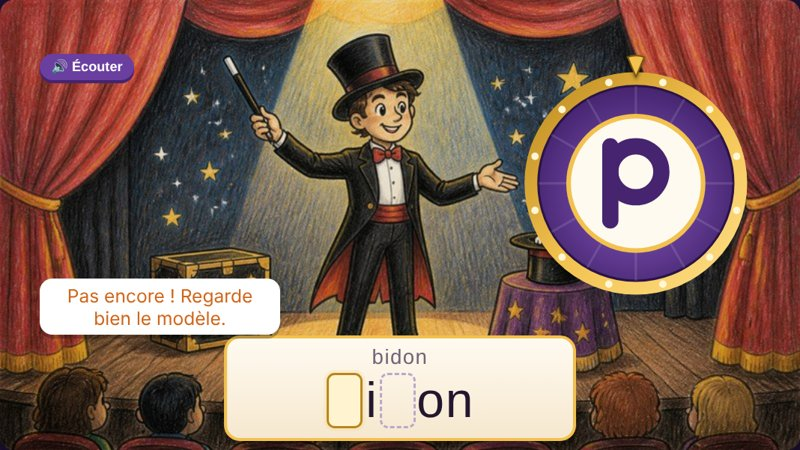
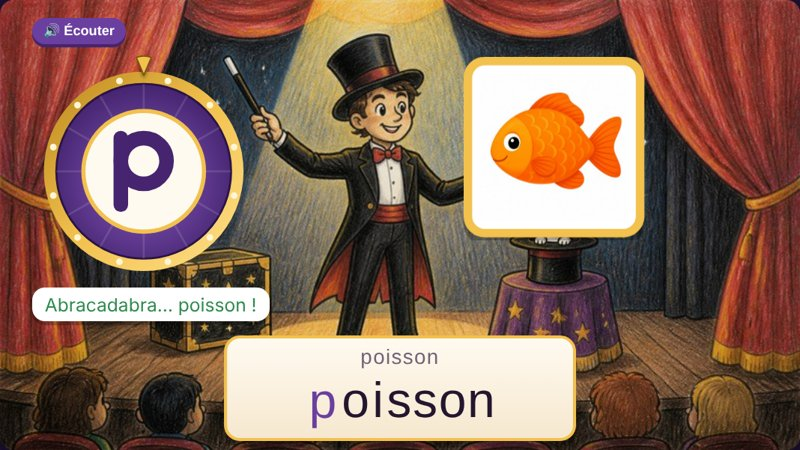
La roue du magicien : l'image sort du chapeau du décor et s'agrandit ; roue à gauche ; nouvelle vignette

Changed region(s): [[0.0312, 0.0311, 0.375, 0.7778], [0.5625, 0.1244, 0.9375, 0.6533], [0.375, 0.7778, 0.625, 0.9644]]

diff --git a/site/post/la-roue-du-magicien/index.html b/site/post/la-roue-du-magicien/index.html
@@ -63,7 +63,7 @@
   <h1>La roue du magicien</h1>
   <p class="meta">4 novembre 2026 · <span class="chip">Lecture-compréhension</span></p>
   <div class="reperes"><span class="niv">GS</span><span class="niv">CP</span><span class="niv">CE1</span><span>👥 1 joueur ou la classe</span><span title="À l'écran">🖥 À l'écran</span><span title="Projetable">📽 Projetable</span></div>
-  <div class="prose"><p>Un jeu de discrimination visuelle pour ne plus confondre b, d, p et q. Sur la scène du magicien, une roue magique contient une seule lettre : un d. En la tournant, il devient p ; en la retournant, il devient b ; en faisant les deux, il devient q. L&#x27;élève doit trouver la bonne position pour écrire la lettre qui manque dans le mot.</p><h2>Comment jouer</h2><ol><li>L&#x27;adulte choisit le niveau, le nombre de mots, les lettres à travailler (b, d, p, q, ou seulement deux d&#x27;entre elles) et les aides.</li><li>Un mot apparaît devant la scène, avec une case vide à la place de chaque b, d, p ou q, et il est dit à voix haute. L&#x27;image du mot reste cachée dans le chapeau du magicien.</li><li>L&#x27;élève fait tourner la roue (avec le doigt, la souris ou le bouton « Tourner ») et la retourne comme une pièce (bouton « Retourner ») jusqu&#x27;à obtenir la bonne lettre.</li><li>Il appuie sur « Abracadabra ! » : si la lettre est bonne, elle s&#x27;envole dans le mot. Sinon, la roue tremble. Après deux erreurs, la bonne lettre apparaît en gris dans la case. Quand le mot est complet, son image sort du chapeau.</li><li>À la fin, un bilan montre les mots écrits et, pour l&#x27;enseignant, un tableau des confusions (par exemple : il fallait b, l&#x27;élève a écrit d).</li></ol><h2>Les 3 niveaux</h2><ul><li>Niveau 1 : une seule lettre à écrire dans le mot (banane, domino, lapin), 15 mots illustrés.</li><li>Niveau 2 : plusieurs lettres dans le même mot (bébé, debout, pédale, papillon).</li><li>Niveau 3 : avec la lettre q (coq, bouquet, paquet, pique-nique).</li><li>Mes mots : l&#x27;enseignant tape sa propre liste.</li></ul><h2>Options</h2><ul><li>Le mot écrit en modèle au-dessus : l&#x27;élève compare et recopie la bonne lettre. Sans modèle, il s&#x27;appuie sur l&#x27;image et sur ce qu&#x27;il entend, c&#x27;est plus difficile.</li><li>Faire sortir ou non l&#x27;image du chapeau (sinon, c&#x27;est le mot écrit qui en sort), dire le mot à voix haute, bruitages.</li><li>Au clavier : flèches gauche et droite pour tourner, haut et bas pour retourner, Entrée pour valider (pratique au vidéoprojecteur).</li></ul><div class="embed embed-large"><div class="embed-bar"><button class="btn embed-fs" type="button" onclick="pleinEcran(this)">⛶ Plein écran</button></div><iframe src="/outils/la-roue-du-magicien.html?v=b6960f1e" style="height:calc(100vh - 84px);min-height:460px;max-height:1000px" title="Outil interactif" loading="lazy" allow="microphone; fullscreen" allowfullscreen></iframe></div><script>
+  <div class="prose"><p>Un jeu de discrimination visuelle pour ne plus confondre b, d, p et q. Sur la scène du magicien, une roue magique contient une seule lettre : un d. En la tournant, il devient p ; en la retournant, il devient b ; en faisant les deux, il devient q. L&#x27;élève doit trouver la bonne position pour écrire la lettre qui manque dans le mot.</p><h2>Comment jouer</h2><ol><li>L&#x27;adulte choisit le niveau, le nombre de mots, les lettres à travailler (b, d, p, q, ou seulement deux d&#x27;entre elles) et les aides.</li><li>Un mot apparaît devant la scène, avec une case vide à la place de chaque b, d, p ou q, et il est dit à voix haute. L&#x27;image du mot reste cachée dans le chapeau du magicien.</li><li>L&#x27;élève fait tourner la roue (avec le doigt, la souris ou le bouton « Tourner ») et la retourne comme une pièce (bouton « Retourner ») jusqu&#x27;à obtenir la bonne lettre.</li><li>Il appuie sur « Abracadabra ! » : si la lettre est bonne, elle s&#x27;envole dans le mot. Sinon, la roue tremble. Après deux erreurs, la bonne lettre apparaît en gris dans la case. Quand le mot est complet, son image sort du chapeau.</li><li>À la fin, un bilan montre les mots écrits et, pour l&#x27;enseignant, un tableau des confusions (par exemple : il fallait b, l&#x27;élève a écrit d).</li></ol><h2>Les 3 niveaux</h2><ul><li>Niveau 1 : une seule lettre à écrire dans le mot (banane, domino, lapin), 15 mots illustrés.</li><li>Niveau 2 : plusieurs lettres dans le même mot (bébé, debout, pédale, papillon).</li><li>Niveau 3 : avec la lettre q (coq, bouquet, paquet, pique-nique).</li><li>Mes mots : l&#x27;enseignant tape sa propre liste.</li></ul><h2>Options</h2><ul><li>Le mot écrit en modèle au-dessus : l&#x27;élève compare et recopie la bonne lettre. Sans modèle, il s&#x27;appuie sur l&#x27;image et sur ce qu&#x27;il entend, c&#x27;est plus difficile.</li><li>Faire sortir ou non l&#x27;image du chapeau (sinon, c&#x27;est le mot écrit qui en sort), dire le mot à voix haute, bruitages.</li><li>Au clavier : flèches gauche et droite pour tourner, haut et bas pour retourner, Entrée pour valider (pratique au vidéoprojecteur).</li></ul><div class="embed embed-large"><div class="embed-bar"><button class="btn embed-fs" type="button" onclick="pleinEcran(this)">⛶ Plein écran</button></div><iframe src="/outils/la-roue-du-magicien.html?v=84aa563a" style="height:calc(100vh - 84px);min-height:460px;max-height:1000px" title="Outil interactif" loading="lazy" allow="microphone; fullscreen" allowfullscreen></iframe></div><script>
 function pleinEcran(b){
   var f = b.closest('.embed').querySelector('iframe');
   var req = f.requestFullscreen || f.webkitRequestFullscreen;

diff --git a/assets/la-roue-du-magicien.html b/assets/la-roue-du-magicien.html
@@ -84,12 +84,19 @@ textarea{width:100%;font:inherit;font-size:17px;padding:8px 10px;border:2px soli
   box-shadow:0 10px 30px rgba(0,0,0,.45);user-select:none;-webkit-user-select:none;touch-action:manipulation}
 .scene.decor-image{background:#22113b center/cover no-repeat}
 .scene.decor-image .decor{display:none}
-/* Avec le décor Canva : le magicien reste visible au centre, le tableau à gauche, la roue à droite, le mot devant la scène. */
+/* Avec le décor Canva : le magicien reste visible au centre, la roue à gauche, le mot devant la scène. */
 .scene.decor-image .panneau{top:auto;bottom:2%}
-.scene.decor-image .chapeau-zone{left:6%;top:13%;width:20%}
+/* Avec le décor : l'image sort du chapeau posé sur la table, à droite du magicien (ouverture vers 69 % / 53,5 %), la roue passe à gauche. */
+.scene.decor-image .chapeau-zone{left:56%;top:0;width:26.4%;height:53.5%;aspect-ratio:auto}
+.scene.decor-image .chapeau-zone svg{display:none}
+.scene.decor-image .sortie{left:0;width:100%;top:0;height:100%}
+.scene.decor-image .surprise{left:27.5%;right:27.5%;transform:translateY(100%) scale(.55);transform-origin:50% 100%}
+.scene.decor-image .chapeau-zone.sort .surprise{animation:sortir-table 1.1s cubic-bezier(.25,1.4,.5,1) forwards}
+@keyframes sortir-table{0%{transform:translateY(100%) scale(.55)}100%{transform:translateY(-4%) scale(1.9)}}
+.scene.decor-image .chapeau-zone.apparait{animation:none}
 .scene.decor-image .ecouter{left:4%;top:4%}
-.scene.decor-image .roue-zone{left:65%;top:15%;width:29%}
-.scene.decor-image .bulle{left:4%;bottom:auto;top:65%;transform:none;white-space:normal;max-width:30%;text-align:center}
+.scene.decor-image .roue-zone{left:5%;top:15%;width:26%}
+.scene.decor-image .bulle{left:4%;bottom:auto;top:64%;transform:none;white-space:normal;max-width:34%;text-align:center;text-wrap:balance}
 /* Décor dessiné (remplacé par l'image Canva si elle est présente) */
 .decor{position:absolute;inset:0;pointer-events:none}
 .rideau{position:absolute;top:0;bottom:12%;width:13%;

diff --git a/site/outils/la-roue-du-magicien.html b/site/outils/la-roue-du-magicien.html
@@ -84,12 +84,19 @@ textarea{width:100%;font:inherit;font-size:17px;padding:8px 10px;border:2px soli
   box-shadow:0 10px 30px rgba(0,0,0,.45);user-select:none;-webkit-user-select:none;touch-action:manipulation}
 .scene.decor-image{background:#22113b center/cover no-repeat}
 .scene.decor-image .decor{display:none}
-/* Avec le décor Canva : le magicien reste visible au centre, le tableau à gauche, la roue à droite, le mot devant la scène. */
+/* Avec le décor Canva : le magicien reste visible au centre, la roue à gauche, le mot devant la scène. */
 .scene.decor-image .panneau{top:auto;bottom:2%}
-.scene.decor-image .chapeau-zone{left:6%;top:13%;width:20%}
+/* Avec le décor : l'image sort du chapeau posé sur la table, à droite du magicien (ouverture vers 69 % / 53,5 %), la roue passe à gauche. */
+.scene.decor-image .chapeau-zone{left:56%;top:0;width:26.4%;height:53.5%;aspect-ratio:auto}
+.scene.decor-image .chapeau-zone svg{display:none}
+.scene.decor-image .sortie{left:0;width:100%;top:0;height:100%}
+.scene.decor-image .surprise{left:27.5%;right:27.5%;transform:translateY(100%) scale(.55);transform-origin:50% 100%}
+.scene.decor-image .chapeau-zone.sort .surprise{animation:sortir-table 1.1s cubic-bezier(.25,1.4,.5,1) forwards}
+@keyframes sortir-table{0%{transform:translateY(100%) scale(.55)}100%{transform:translateY(-4%) scale(1.9)}}
+.scene.decor-image .chapeau-zone.apparait{animation:none}
 .scene.decor-image .ecouter{left:4%;top:4%}
-.scene.decor-image .roue-zone{left:65%;top:15%;width:29%}
-.scene.decor-image .bulle{left:4%;bottom:auto;top:65%;transform:none;white-space:normal;max-width:30%;text-align:center}
+.scene.decor-image .roue-zone{left:5%;top:15%;width:26%}
+.scene.decor-image .bulle{left:4%;bottom:auto;top:64%;transform:none;white-space:normal;max-width:34%;text-align:center;text-wrap:balance}
 /* Décor dessiné (remplacé par l'image Canva si elle est présente) */
 .decor{position:absolute;inset:0;pointer-events:none}
 .rideau{position:absolute;top:0;bottom:12%;width:13%;
